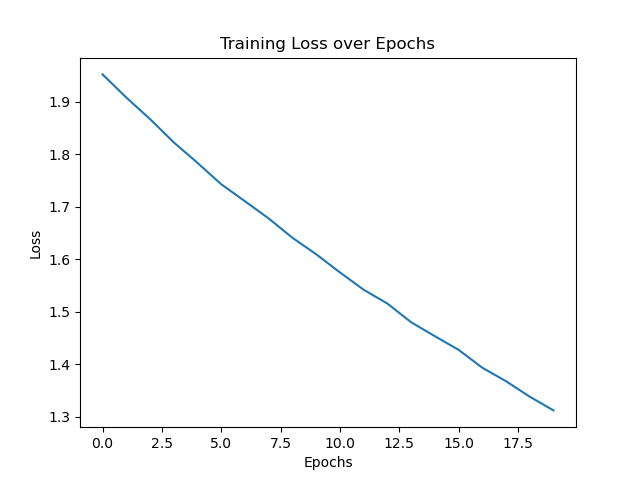
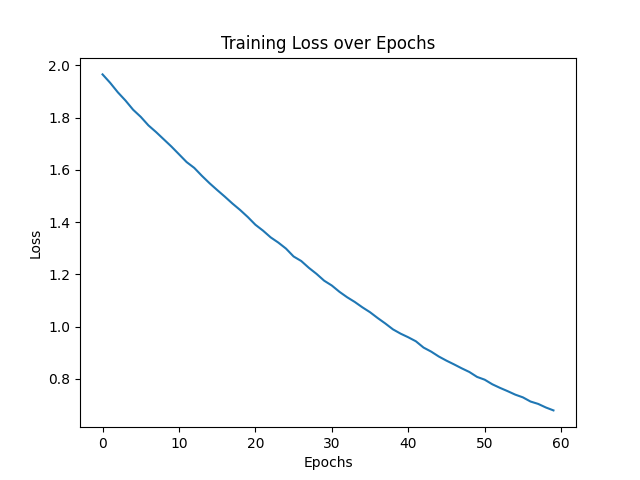
split train, test data (20 instances per label: train), (150 instances per label: test)

diff --git a/ECS189G_Winter_2022_Source_Code_Template/source_code/stage_5_code/Dataset_Loader_Node_Classification.py b/ECS189G_Winter_2022_Source_Code_Template/source_code/stage_5_code/Dataset_Loader_Node_Classification.py
@@ -1,6 +1,7 @@
 '''
 Concrete IO class for a specific dataset
 '''
+import random
 
 # Copyright (c) 2017 Jiawei Zhang <jwzhanggy@gmail.com>
 # License: TBD
@@ -51,6 +52,9 @@ class Dataset_Loader(dataset):
         features = sp.csr_matrix(idx_features_labels[:, 1:-1], dtype=np.float32)
         onehot_labels = self.encode_onehot(idx_features_labels[:, -1])
 
+        print("initial features", features[0][0])
+        print("initial labels", onehot_labels[0])
+
         # load link data from file and build graph
         idx = np.array(idx_features_labels[:, 0], dtype=np.int32)
         idx_map = {j: i for i, j in enumerate(idx)}
@@ -68,12 +72,47 @@ class Dataset_Loader(dataset):
         labels = torch.LongTensor(np.where(onehot_labels)[1])
         adj = self.sparse_mx_to_torch_sparse_tensor(norm_adj)
 
+        print("filtering", features.shape, labels.shape, adj.shape)
+
         # the following part, you can either put them into the setting class or you can leave them in the dataset loader
         # the following train, test, val index are just examples, sample the train, test according to project requirements
         if self.dataset_name == 'cora':
-            idx_train = range(140)
-            idx_test = range(200, 1250)
-            idx_val = range(1300, 1500)
+            # idx_train = range(140)
+            # idx_test = range(200, 1250)
+            # idx_val = range(1300, 1500)
+            unique_labels = torch.unique(labels)
+            idx_train = []
+            idx_test = []
+            idx_val = []
+
+            for label in unique_labels:
+                all_idx_label = (labels == label).nonzero().view(-1)
+                all_idx_label = all_idx_label[torch.randperm(all_idx_label.size(0))]
+
+                print("all idx", label, all_idx_label)
+
+                train_labels = all_idx_label[:20]
+                test_labels = all_idx_label[21: 21 + 150]
+                val_labels = all_idx_label[21+150+1: 21+150+1+200]
+
+                print("train size", train_labels.tolist(), len(train_labels))
+                print("test size", len(test_labels))
+
+                for idx in train_labels.tolist():
+                    idx_train.append(idx)
+
+                for idx in test_labels.tolist():
+                    idx_test.append(idx)
+
+                for idx in val_labels.tolist():
+                    idx_val.append(idx)
+
+            print("after separating", len(idx_train), len(idx_test), len(idx_val))
+            # print(torch.cat(idx_train))
+            random.shuffle(idx_train)
+            random.shuffle(idx_test)
+            random.shuffle(idx_val)
+
         elif self.dataset_name == 'citeseer':
             idx_train = range(120)
             idx_test = range(200, 1200)
@@ -97,7 +136,7 @@ class Dataset_Loader(dataset):
         # test_x = features[idx_test]
         # print(train_x, val_x, test_x)
 
-        train_test_val = {'idx_train': idx_train, 'idx_test': idx_test, 'idx_val': idx_val}
+        train_test_val = {'idx_train': idx_train, 'idx_test': idx_test}
         graph = {'node': idx_map, 'edge': edges, 'X': features, 'y': labels, 'utility': {'A': adj, 'reverse_idx': reverse_idx_map}}
         return {'graph': graph, 'train_test_val': train_test_val}
 

diff --git a/ECS189G_Winter_2022_Source_Code_Template/source_code/stage_5_code/Cora_GCN_Method.py b/ECS189G_Winter_2022_Source_Code_Template/source_code/stage_5_code/Cora_GCN_Method.py
@@ -76,8 +76,8 @@ plt.savefig('../../result/stage_5_result/cora_loss.png')
 # TESTING
 model.eval()
 y_pred = model(X_test, adj_test).max(1)[1]
-print(y_test)
-print(y_pred)
+print("y_test", y_test)
+print("y_pred", y_pred)
 
 # Evaluate testing
 evaluate_metrics = Evaluate_Metrics('testing evaluator', '')
